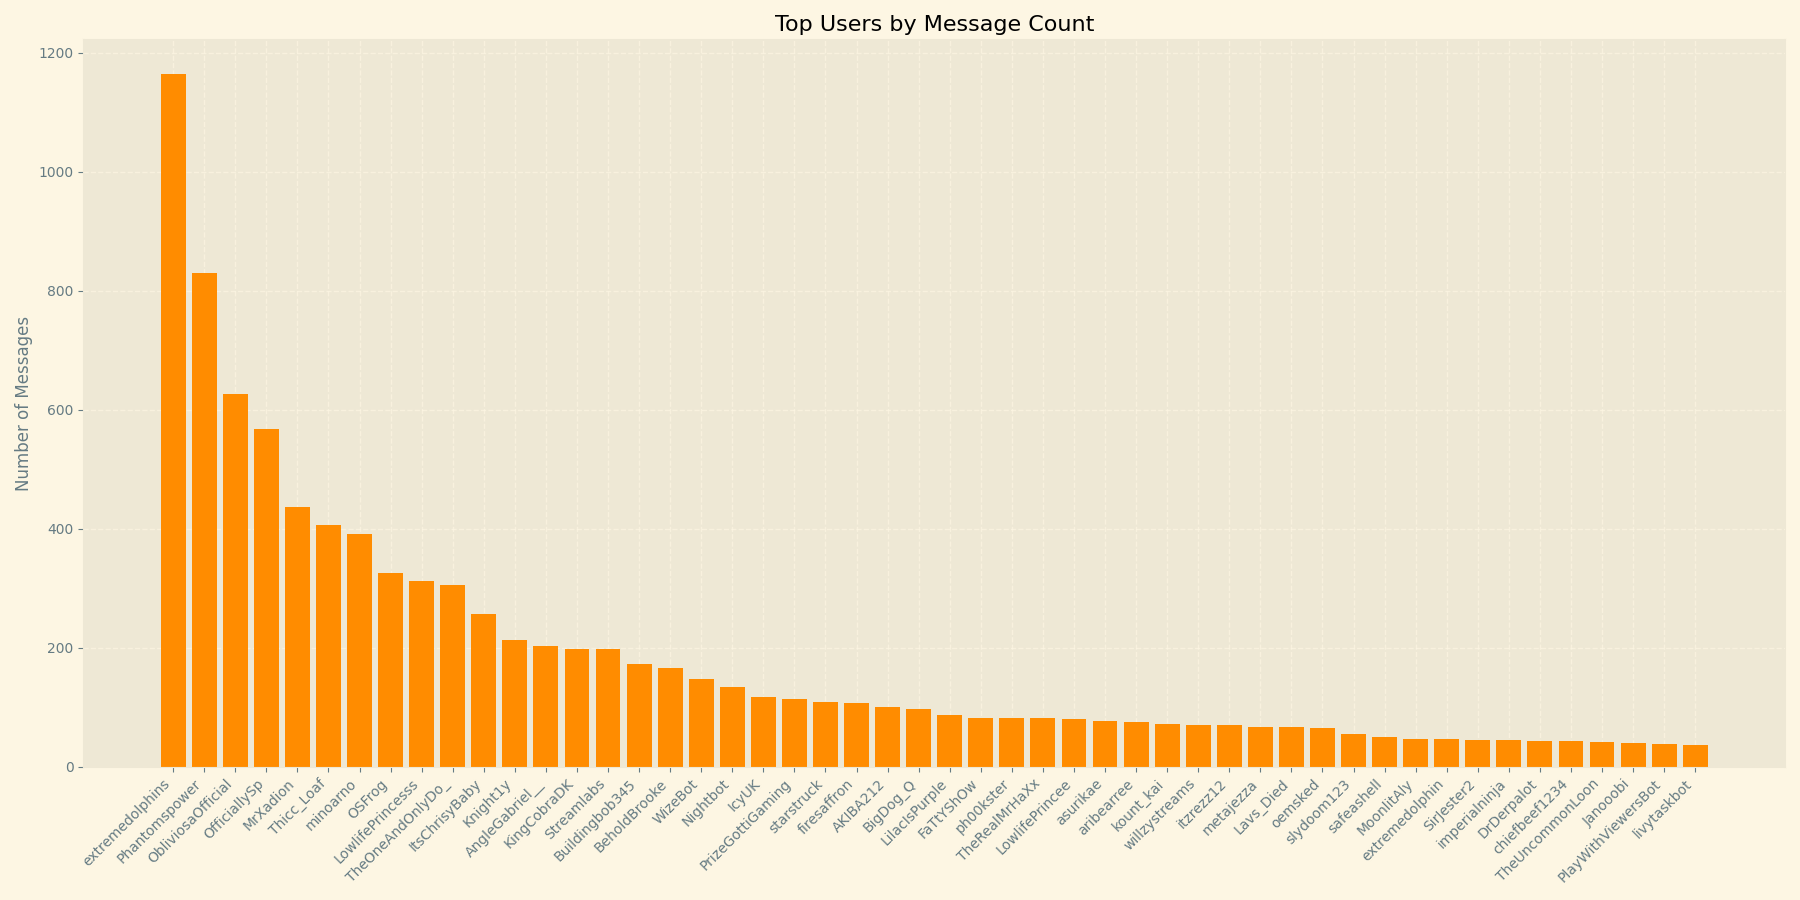
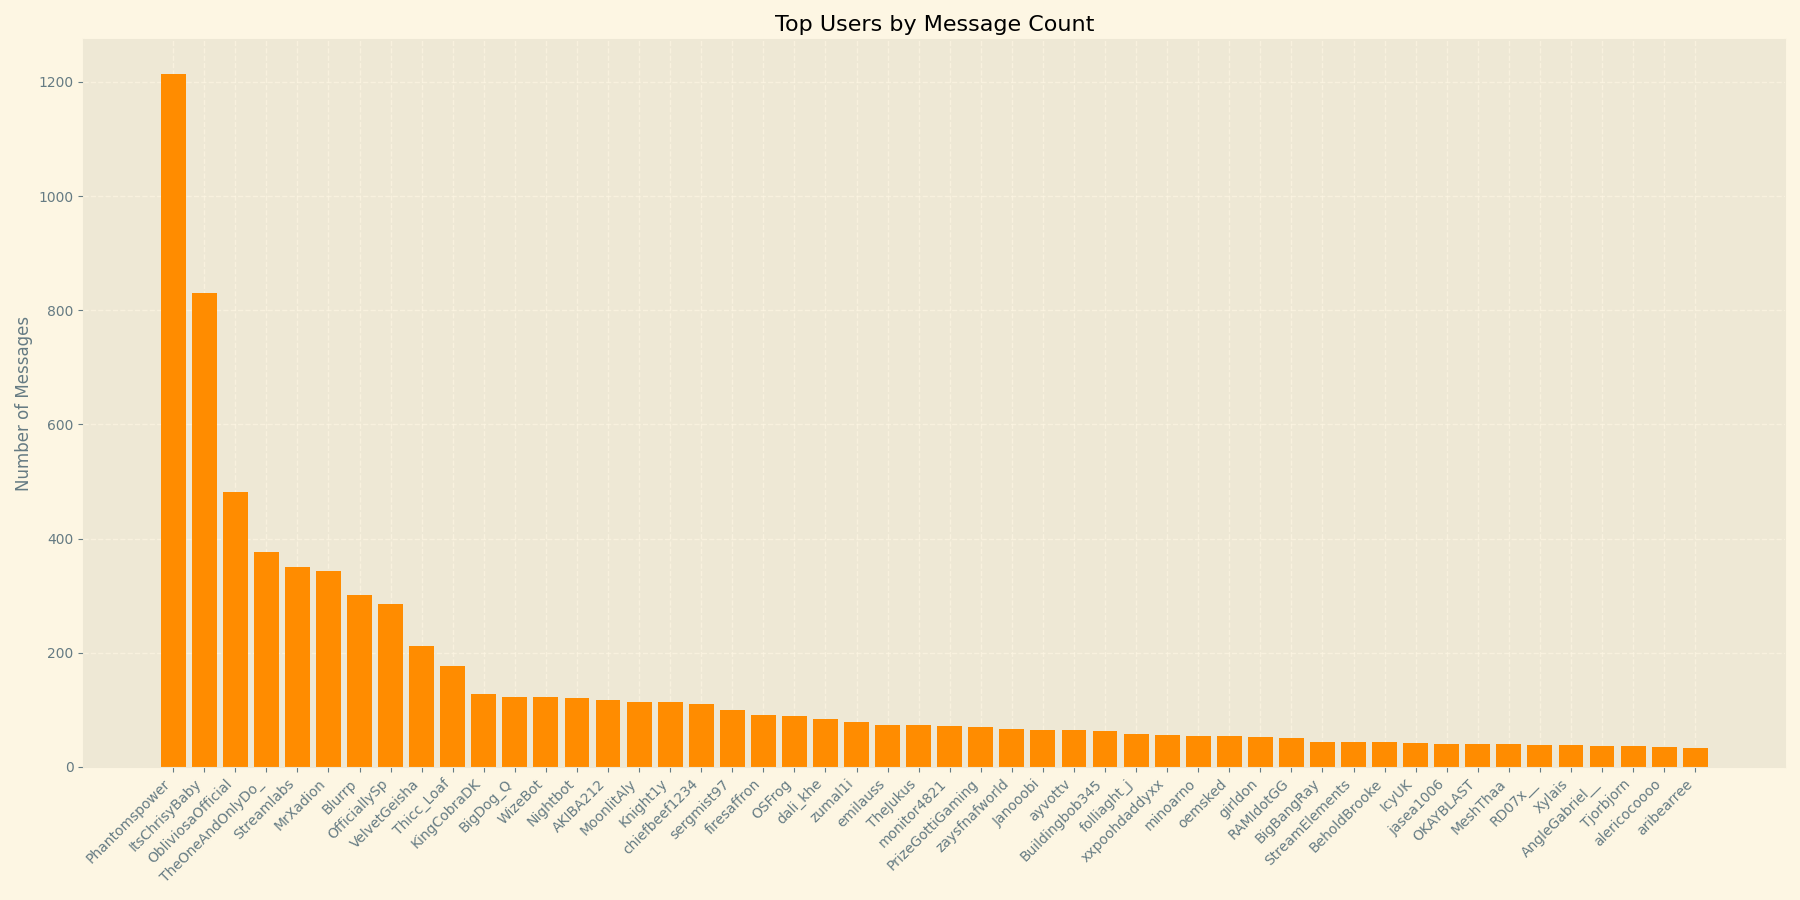
November Stats

Changed region(s): [[0.0311, 0.8711, 0.9333, 0.9644], [0.1244, 0.4356, 0.9022, 0.84], [0.0933, 0.28, 0.1244, 0.3422]]

diff --git a/stats/index.html b/stats/index.html
@@ -172,7 +172,7 @@
 </head>
 <script>
     // Set the date and time for the countdown to end (e.g., "October 30, 2023 15:00:00")
-    var countDownDate = new Date("December 1, 2023 15:00:00").getTime();
+    var countDownDate = new Date("January 4, 2024 15:00:00").getTime();
 
     // Update the count down every 1 second
     var x = setInterval(function() {
@@ -201,7 +201,7 @@
 
 <body>
     <div class="header">
-        <h1>Obliviosa Chatstats (October 2023)</h1>
+        <h1>Obliviosa Chatstats (November  2023)</h1>
 		<div id="timer">
           <p>Next update in:</p>
             <div class="time-unit">
@@ -229,6 +229,7 @@
                 <a href="#archive">Archives</a>
                 <div class="dropdown-content">
                     <a href="/stats/archive/oct23.html">October 2023</a>
+					<a href="/stats/archive/nov23.html">November 2023</a>
                 </div>
             </div>
             <div class="dropdown">
@@ -251,54 +252,58 @@
     <h2>Detailed chat stats</h2>
     <p>Channel Mods are marked as <strong>bold</strong>. Bots are <em>italicised</em></p>
     <ol>
-<li>extremedolphins: 1164 messages</li>
-<li><strong>Phantomspower</strong>: 830 messages</li>
-<li><mark>ObliviosaOfficial</mark>: 627 messages</li>
-<li>OfficiallySp: 567 messages</li>
-<li>MrXadion: 436 messages</li>
-<li>Thicc_Loaf: 406 messages</li>
-<li>minoarno: 392 messages</li>
-<li><strong>OSFrog</strong>: 326 messages</li>
-<li>LowlifePrincesss: 312 messages</li>
-<li>TheOneAndOnlyDo_: 305 messages</li>
-<li>ItsChrisyBaby: 257 messages</li>
-<li>Knight1y: 214 messages</li>
-<li><strong>AngleGabriel__</strong>: 203 messages</li>
-<li>KingCobraDK and <em>Streamlabs</em>: 198 messages each</li>
-<li>Buildingbob345: 173 messages</li>
-<li>BeholdBrooke: 166 messages</li>
-<li><em>WizeBot</em>: 147 messages</li>
-<li><em>Nightbot</em>: 135 messages</li>
-<li>IcyUK: 117 messages</li>
-<li>PrizeGottiGaming: 114 messages</li>
-<li>starstruck: 110 messages</li>
-<li>firesaffron: 108 messages</li>
-<li><strong>AKIBA212</strong>: 101 messages</li>
-<li>BigDog_Q: 97 messages</li>
-<li>LilacIsPurple: 88 messages</li>
-<li>FaTtYShOw and ph00kster: 83 messages each</li>
-<li>TheRealMrHaXx: 82 messages</li>
-<li>LowlifePrincee: 80 messages</li>
-<li>asurikae: 77 messages</li>
-<li>aribearree: 76 messages</li>
-<li>kount_kai: 72 messages</li>
-<li><strong>willzystreams</strong> and itzrezz12: 70 messages each</li>
-<li>itzrezz12: 70 messages</li>
-<li>metajezza: 68 messages</li>
-<li>Lavs_Died: 67 messages</li>
-<li>oemsked: 65 messages</li>
-<li>slydoom123: 55 messages</li>
-<li>safeashell: 50 messages</li>
-<li>MoonlitAly and extremedolphin: 47 messages each</li>
-<li>SirJester2 and imperialninja: 46 messages each</li>
-<li>DrDerpalot: 44 messages</li>
-<li>chiefbeef1234: 43 messages</li>
-<li>TheUncommonLoon: 42 messages</li>
-<li>Janooobi: 40 messages</li>
-<li><em>PlayWithViewersBot</em>: 38 messages</li>
-<li><em>livytaskbot</em>: 37 messages</li>
+<li>Phantomspower: 1214 messages</li>
+<li>ItsChrisyBaby: 831 messages</li>
+<li>ObliviosaOfficial: 482 messages</li>
+<li>TheOneAndOnlyDo_: 377 messages</li>
+<li>Streamlabs: 351 messages</li>
+<li>MrXadion: 344 messages</li>
+<li>Blurrp: 302 messages</li>
+<li>OfficiallySp: 285 messages</li>
+<li>VelvetGeisha: 212 messages</li>
+<li>Thicc_Loaf: 177 messages</li>
+<li>KingCobraDK: 128 messages</li>
+<li>BigDog_Q: 123 messages</li>
+<li>WizeBot: 123 messages</li>
+<li>Nightbot: 120 messages</li>
+<li>AKIBA212: 118 messages</li>
+<li>MoonlitAly: 114 messages</li>
+<li>Knight1y: 113 messages</li>
+<li>chiefbeef1234: 110 messages</li>
+<li>sergmist97: 99 messages</li>
+<li>firesaffron: 91 messages</li>
+<li>OSFrog: 89 messages</li>
+<li>dali_khe: 84 messages</li>
+<li>zumal1i: 78 messages</li>
+<li>emilauss: 74 messages</li>
+<li>TheJukus: 74 messages</li>
+<li>monitor4821: 71 messages</li>
+<li>PrizeGottiGaming: 70 messages</li>
+<li>zaysfnafworld: 66 messages</li>
+<li>Janooobi: 64 messages</li>
+<li>ayvottv: 64 messages</li>
+<li>Buildingbob345: 63 messages</li>
+<li>folliaght_j: 57 messages</li>
+<li>xxpoohdaddyxx: 56 messages</li>
+<li>minoarno: 55 messages</li>
+<li>oemsked: 54 messages</li>
+<li>girldon: 52 messages</li>
+<li>RAMIdotGG: 51 messages</li>
+<li>BigBangRay: 43 messages</li>
+<li>StreamElements: 43 messages</li>
+<li>BeholdBrooke: 43 messages</li>
+<li>IcyUK: 42 messages</li>
+<li>jasea1006: 41 messages</li>
+<li>OKAYBLAST: 41 messages</li>
+<li>MeshThaa: 41 messages</li>
+<li>RD07x__: 39 messages</li>
+<li>Xylais: 38 messages</li>
+<li>AngleGabriel__: 36 messages</li>
+<li>Tjorbjorn: 36 messages</li>
+<li>alericocoooo: 35 messages</li>
+<li>aribearree: 34 messages</li>
 	</ol>
-		<h4>10743 Total Messages Logged from 219 Chat Participants</h4>
+		<h4>8442 Total messages Logged from 186 Chat Participants</h4>
     <footer>
         <p>Go watch <a href="https://www.twitch.tv/obliviosaofficial">Obliviosa on Twitch</a> or even <a href="https://www.instagram.com/obliviosaofficial/">follow her on Instagram</a>.</p>
         <p>Statpage made with ❤ by OfficiallySp (Shane Pepperell © 2023)</p>

diff --git a/stats/archive/nov23.html b/stats/archive/nov23.html
@@ -172,7 +172,7 @@
 </head>
 <script>
     // Set the date and time for the countdown to end (e.g., "October 30, 2023 15:00:00")
-    var countDownDate = new Date("December 1, 2023 15:00:00").getTime();
+    var countDownDate = new Date("January 4, 2024 15:00:00").getTime();
 
     // Update the count down every 1 second
     var x = setInterval(function() {
@@ -201,7 +201,7 @@
 
 <body>
     <div class="header">
-        <h1>Obliviosa Chatstats (October 2023)</h1>
+        <h1>Obliviosa Chatstats (November  2023)</h1>
 		<div id="timer">
           <p>Next update in:</p>
             <div class="time-unit">
@@ -248,58 +248,62 @@
             </div>
         </div>
     </div>
-    <img src="../../assets/October.png" alt="Chart Unavailable" />
+    <img src="/assets/Figure_1.png" alt="Chart Unavailable" />
     <h2>Detailed chat stats</h2>
     <p>Channel Mods are marked as <strong>bold</strong>. Bots are <em>italicised</em></p>
     <ol>
-<li>extremedolphins: 1164 messages</li>
-<li><strong>Phantomspower</strong>: 830 messages</li>
-<li><mark>ObliviosaOfficial</mark>: 627 messages</li>
-<li>OfficiallySp: 567 messages</li>
-<li>MrXadion: 436 messages</li>
-<li>Thicc_Loaf: 406 messages</li>
-<li>minoarno: 392 messages</li>
-<li><strong>OSFrog</strong>: 326 messages</li>
-<li>LowlifePrincesss: 312 messages</li>
-<li>TheOneAndOnlyDo_: 305 messages</li>
-<li>ItsChrisyBaby: 257 messages</li>
-<li>Knight1y: 214 messages</li>
-<li><strong>AngleGabriel__</strong>: 203 messages</li>
-<li>KingCobraDK and Streamlabs: 198 messages each</li>
-<li>Buildingbob345: 173 messages</li>
-<li>BeholdBrooke: 166 messages</li>
-<li><em>WizeBot</em>: 147 messages</li>
-<li><em>Nightbot</em>: 135 messages</li>
-<li>IcyUK: 117 messages</li>
-<li>PrizeGottiGaming: 114 messages</li>
-<li>starstruck: 110 messages</li>
-<li>firesaffron: 108 messages</li>
-<li><strong>AKIBA212</strong>: 101 messages</li>
-<li>BigDog_Q: 97 messages</li>
-<li>LilacIsPurple: 88 messages</li>
-<li>FaTtYShOw and ph00kster: 83 messages each</li>
-<li>TheRealMrHaXx: 82 messages</li>
-<li>LowlifePrincee: 80 messages</li>
-<li>asurikae: 77 messages</li>
-<li>aribearree: 76 messages</li>
-<li>kount_kai: 72 messages</li>
-<li><strong>willzystreams</strong> and itzrezz12: 70 messages each</li>
-<li>itzrezz12: 70 messages</li>
-<li>metajezza: 68 messages</li>
-<li>Lavs_Died: 67 messages</li>
-<li>oemsked: 65 messages</li>
-<li>slydoom123: 55 messages</li>
-<li>safeashell: 50 messages</li>
-<li>MoonlitAly and extremedolphin: 47 messages each</li>
-<li>SirJester2 and imperialninja: 46 messages each</li>
-<li>DrDerpalot: 44 messages</li>
-<li>chiefbeef1234: 43 messages</li>
-<li>TheUncommonLoon: 42 messages</li>
-<li>Janooobi: 40 messages</li>
-<li><em>PlayWithViewersBot</em>: 38 messages</li>
-<li><em>livytaskbot</em>: 37 messages</li>
+<li>Phantomspower: 1214 messages</li>
+<li>ItsChrisyBaby: 831 messages</li>
+<li>ObliviosaOfficial: 482 messages</li>
+<li>TheOneAndOnlyDo_: 377 messages</li>
+<li>Streamlabs: 351 messages</li>
+<li>MrXadion: 344 messages</li>
+<li>Blurrp: 302 messages</li>
+<li>OfficiallySp: 285 messages</li>
+<li>VelvetGeisha: 212 messages</li>
+<li>Thicc_Loaf: 177 messages</li>
+<li>KingCobraDK: 128 messages</li>
+<li>BigDog_Q: 123 messages</li>
+<li>WizeBot: 123 messages</li>
+<li>Nightbot: 120 messages</li>
+<li>AKIBA212: 118 messages</li>
+<li>MoonlitAly: 114 messages</li>
+<li>Knight1y: 113 messages</li>
+<li>chiefbeef1234: 110 messages</li>
+<li>sergmist97: 99 messages</li>
+<li>firesaffron: 91 messages</li>
+<li>OSFrog: 89 messages</li>
+<li>dali_khe: 84 messages</li>
+<li>zumal1i: 78 messages</li>
+<li>emilauss: 74 messages</li>
+<li>TheJukus: 74 messages</li>
+<li>monitor4821: 71 messages</li>
+<li>PrizeGottiGaming: 70 messages</li>
+<li>zaysfnafworld: 66 messages</li>
+<li>Janooobi: 64 messages</li>
+<li>ayvottv: 64 messages</li>
+<li>Buildingbob345: 63 messages</li>
+<li>folliaght_j: 57 messages</li>
+<li>xxpoohdaddyxx: 56 messages</li>
+<li>minoarno: 55 messages</li>
+<li>oemsked: 54 messages</li>
+<li>girldon: 52 messages</li>
+<li>RAMIdotGG: 51 messages</li>
+<li>BigBangRay: 43 messages</li>
+<li>StreamElements: 43 messages</li>
+<li>BeholdBrooke: 43 messages</li>
+<li>IcyUK: 42 messages</li>
+<li>jasea1006: 41 messages</li>
+<li>OKAYBLAST: 41 messages</li>
+<li>MeshThaa: 41 messages</li>
+<li>RD07x__: 39 messages</li>
+<li>Xylais: 38 messages</li>
+<li>AngleGabriel__: 36 messages</li>
+<li>Tjorbjorn: 36 messages</li>
+<li>alericocoooo: 35 messages</li>
+<li>aribearree: 34 messages</li>
 	</ol>
-		<h4>10743 Total Messages Logged from 219 Chat Participants</h4>
+		<h4>8442 Total messages Logged from 186 Chat Participants</h4>
     <footer>
         <p>Go watch <a href="https://www.twitch.tv/obliviosaofficial">Obliviosa on Twitch</a> or even <a href="https://www.instagram.com/obliviosaofficial/">follow her on Instagram</a>.</p>
         <p>Statpage made with ❤ by OfficiallySp (Shane Pepperell © 2023)</p>

diff --git a/stats/event/ss2023.html b/stats/event/ss2023.html
@@ -229,6 +229,7 @@
                 <a href="#archive">Archives</a>
                 <div class="dropdown-content">
                     <a href="/stats/archive/oct23.html">October 2023</a>
+					<a href="/stats/archive/nov23.html">November 2023</a>
                 </div>
             </div>
             <div class="dropdown">
